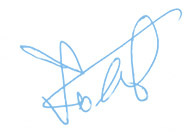
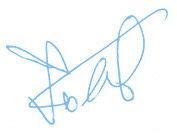
mac

Changed region(s): [[0.0282, 0.0588, 0.9605, 0.9412]]

diff --git a/index.html b/index.html
@@ -41,10 +41,10 @@
 	<div class="b b-1">
 		<div class="b-block">
 			<img src="i/parallax/p-1.png" class="b-enllax b-1-enllax-1" alt="" data-enllax-ratio="1" data-enllax-type="foreground" data-enllax-direction="vertical">
-			<img src="i/parallax/p-2.png" class="b-enllax b-1-enllax-2" alt="" data-enllax-ratio="1" data-enllax-type="foreground" data-enllax-direction="vertical">
+			<img src="i/parallax/p-2.png" class="b-enllax b-1-enllax-2" alt="" data-enllax-ratio="0.5" data-enllax-type="foreground" data-enllax-direction="vertical">
 			<img src="i/parallax/p-5.png" class="b-enllax b-1-enllax-3" alt="" data-enllax-ratio="0.1" data-enllax-type="foreground" data-enllax-direction="vertical">
-			<img src="i/parallax/p-8.png" class="b-enllax b-1-enllax-4" alt="" data-enllax-ratio="0.1" data-enllax-type="foreground" data-enllax-direction="vertical">
-			<img src="i/parallax/p-6.png" class="b-enllax b-1-enllax-5" alt="" data-enllax-ratio="1.5" data-enllax-type="foreground" data-enllax-direction="vertical">
+			<img src="i/parallax/p-8.png" class="b-enllax b-1-enllax-4" alt="" data-enllax-ratio="0.2" data-enllax-type="foreground" data-enllax-direction="vertical">
+			<img src="i/parallax/p-6.png" class="b-enllax b-1-enllax-5" alt="" data-enllax-ratio="1" data-enllax-type="foreground" data-enllax-direction="vertical">
 			<img src="i/parallax/p-7.png" class="b-enllax b-1-enllax-6" alt="" data-enllax-ratio="1.5" data-enllax-type="foreground" data-enllax-direction="vertical">
 			<div class="b-header clearfix">
 				<div class="b-header-left">
@@ -76,15 +76,15 @@
 				<div class="b-1-front">
 					<h1>Продажа свежевыжатого <br><b><span class="percent">100</span> сока алоэ</b> в Москве</h1>
 					<div class="b-advantages">
-						<div class="b-advantage-item b-1-advantages-1">
+						<div class="b-advantage-item b-1-advantages-1 anim fadeLeft" data-cont=".b-advantages">
 							<img src="i/icons/icon-plant-green.svg">
 							<p>Наш сок выжат из<br><b>экологически чистых листьев</b><br>(их возраст более 3-х лет)</p>
 						</div>
-						<div class="b-advantage-item b-1-advantages-2">
+						<div class="b-advantage-item b-1-advantages-2 anim fadeLeft delay200" data-cont=".b-advantages">
 							<img src="i/icons/icon-vial-green.svg">
 							<p><b>Без консервантов, химии</b><br>и любых иных добавок</p>
 						</div>
-						<div class="b-advantage-item b-1-advantages-3">
+						<div class="b-advantage-item b-1-advantages-3 anim fadeLeft delay400" data-cont=".b-advantages">
 							<img src="i/icons/icon-water-green.svg">
 							<p><b>Отжимаем сок в день вашего<br>обращения</b> и сразу доставляем<br>его вам</p>
 						</div>
@@ -126,7 +126,7 @@
 					<h4>Выжимаем сок алоэ из листьев, привезенных<br>с фермы лекарственных растений</h4>
 				</div>
 				<div class="b-2-list">
-					<div class="b-blur-init b-2-item b-2-item-1">
+					<div class="b-blur-init b-2-item b-2-item-1 anim fadeLeft" data-cont=".b-2-list">
 						<div class="b-2-item-blur"></div>
 						<div class="b-2-item-content">
 							<div class="b-2-item-left">
@@ -135,7 +135,7 @@
 							<p class="b-2-item-right">Листья алоэ выращиваются возле Черного моря и срезаются на пике зрелости в возрасте 3-х лет</p>
 						</div>
 					</div>
-					<div class="b-blur-init b-2-item b-2-item-2">
+					<div class="b-blur-init b-2-item b-2-item-2 anim fadeLeft delay200" data-cont=".b-2-list">
 						<div class="b-2-item-blur"></div>
 						<div class="b-2-item-content">
 							<div class="b-2-item-left">
@@ -199,7 +199,7 @@
 					<h4 class="white">На больших производствах листья измельчаются в «труху»,<br>20% витаминов сока разрушаются мгновенно</h4>
 				</div>
 				<div class="b-2-list">
-					<div class="b-blur-init b-2-item b-2-item-1">
+					<div class="b-blur-init b-2-item b-2-item-1 anim fadeLeft">
 						<div class="b-2-item-blur"></div>
 						<div class="b-2-item-content">
 							<div class="b-2-item-left">
@@ -220,10 +220,10 @@
 				<h4>Он точно такой, как если бы Вы сами выжали сок из листа алоэ</h4>
 			</div>
 			<div class="b-5-content">
-				<img src="i/5/left.jpg" class="b-5-img-left">
-				<img src="i/5/right.jpg" class="b-5-img-right">
-				<img src="i/5/line.svg" class="b-5-line">
-				<div class="b-5-text">
+				<img src="i/5/left.jpg" class="b-5-img-left anim fadeLeft delay100" data-cont=".b-5-content">
+				<img src="i/5/right.jpg" class="b-5-img-right anim fadeRight delay300" data-cont=".b-5-content">
+				<img src="i/5/line.svg" class="b-5-line anim fadeLeft" data-cont=".b-5-content">
+				<div class="b-5-text anim fadeLeft" data-cont=".b-5-content">
 					<img src="i/5/co.svg">
 					<p>А для длительного хранения<br>его можно заморозить.</p>
 					<p>Упаковка специально адаптирована<br>для хранения в морозильной камере</p>
@@ -316,7 +316,7 @@
 			<div class="b-facts">
 				<div class="b-fact-item b-fact-1">
 					<div class="b-fact-left">
-						<h2><b>Факт 1</b></h2>
+						<h2 class="anim fadeLeft"><b>Факт 1</b></h2>
 					</div>
 					<div class="b-fact-right">
 						<div class="b-fact-header">
@@ -350,7 +350,7 @@
 				</div>
 				<div class="b-fact-item b-fact-2">
 					<div class="b-fact-left">
-						<h2><b>Факт 2</b></h2>
+						<h2 class="anim fadeLeft"><b>Факт 2</b></h2>
 					</div>
 					<div class="b-fact-right">
 						<div class="b-fact-header">
@@ -366,7 +366,7 @@
 				</div>
 				<div class="b-fact-item b-fact-3">
 					<div class="b-fact-left">
-						<h2><b>Факт 3</b></h2>
+						<h2 class="anim fadeLeft"><b>Факт 3</b></h2>
 					</div>
 					<div class="b-fact-right">
 						<div class="b-fact-header">
@@ -461,19 +461,19 @@
 					<h4>Стаканчики изготовлены из безопасного пластика, который <br>используется, в том числе, и для фасовки детского питания</h4>
 				</div>
 				<div class="b-10-list">
-					<div class="b-blur-init b-10-item b-10-item-1">
+					<div class="b-blur-init b-10-item b-10-item-1 anim fadeLeft" data-cont=".b-10-list">
 						<div class="b-2-item-blur"></div>
 						<div class="b-2-item-content">
 							<p>Каждая упаковка максимально удобна<br>— она содержит <b>8 порционных<br>баночек</b> с соком алоэ</p>
 						</div>
 					</div>
-					<div class="b-blur-init b-10-item b-10-item-2">
+					<div class="b-blur-init b-10-item b-10-item-2 anim fadeRight delay400" data-cont=".b-10-list">
 						<div class="b-2-item-blur"></div>
 						<div class="b-2-item-content">
 							<p>Каждой <b>упаковки хватит</b> больше,<br>чем на недельный курс приёма<br>сока алоэ</p>
 						</div>
 					</div>
-					<div class="b-blur-init b-10-item b-10-item-3">
+					<div class="b-blur-init b-10-item b-10-item-3 anim fadeDown delay800" data-cont=".b-10-list">
 						<div class="b-2-item-blur"></div>
 						<div class="b-2-item-content">
 							<p>1 порция соответствует <b>дневной<br>норме</b> сока алоэ для взрослого<br>человека</p>
@@ -817,7 +817,7 @@
 			<div class="b-title">
 				<h2><b>Посмотрите на отзывы</b><br>тех, кто уже начал регулярно принимать<br>наш свежевыжатый сок алоэ</h2>
 			</div>
-			<p class="b-14-top-text">Всего лишь 2-3 упаковки сока дадут видимые<br>результаты уже через 2 недели применения<img src="i/14/line.svg"></p>
+			<p class="b-14-top-text anim fadeDown delay200">Всего лишь 2-3 упаковки сока дадут видимые<br>результаты уже через 2 недели применения<img src="i/14/line.svg"></p>
 			<div class="b-reviews-nav">
 				<div class="b-reviews-item">
 					<div class="b-reviews-img" style="background-image: url('i/14/review-1.jpg');"></div>
@@ -1035,16 +1035,16 @@
 					<small>* Заморозке подвергаются даже редкие группы крови для последующего переливания</small>
 				</div>
 				<div class="b-16-advantages">
-					<div class="b-16-advantage-item b-16-advantages-1">
+					<div class="b-16-advantage-item b-16-advantages-1 anim fadeLeft" data-cont=".b-16-advantages">
 						<img src="i/icons/icon-temperature.svg">
 						<p>Хранить в замороженном виде сок можно до 1 года<br>и подвергать разморозке не более 3-х раз</p>
 					</div>
-					<div class="b-16-advantage-item b-16-advantages-2">
+					<div class="b-16-advantage-item b-16-advantages-2 anim fadeLeft delay200" data-cont=".b-16-advantages">
 						<img src="i/icons/icon-time.svg">
 						<p>Для употребления замороженного сока возьмите <br>1 баночку и дождитесь её оттаивания. Это займет 10 минут</p>
 						<p class="b-16-advantage-note">Не подвергайте сок принудительному нагреванию</p>
 					</div>
-					<div class="b-16-advantage-item b-16-advantages-3">
+					<div class="b-16-advantage-item b-16-advantages-3 anim fadeLeft delay400" data-cont=".b-16-advantages">
 						<img src="i/icons/icon-ok.svg">
 						<p>Перед вскрытием взболтайте баночку: содержимое<br>в силу натуральности может содержать небольшой<br>осадок</p>
 					</div>
@@ -1055,13 +1055,13 @@
 
 	<div class="b b-17">
 		<div class="b-block">
-			<img src="i/parallax/p-1.png" class="b-enllax b-17-enllax-1" alt="" data-enllax-ratio="1.5" data-enllax-type="foreground" data-enllax-direction="vertical">
-			<img src="i/parallax/p-2.png" class="b-enllax b-17-enllax-2" alt="" data-enllax-ratio="1.5" data-enllax-type="foreground" data-enllax-direction="vertical">
-			<img src="i/parallax/p-3.png" class="b-enllax b-17-enllax-3" alt="" data-enllax-ratio="0.2" data-enllax-type="foreground" data-enllax-direction="vertical">
-			<img src="i/parallax/p-4.png" class="b-enllax b-17-enllax-4" alt="" data-enllax-ratio="0.2" data-enllax-type="foreground" data-enllax-direction="vertical">
-			<img src="i/parallax/p-5.png" class="b-enllax b-17-enllax-5" alt="" data-enllax-ratio="0.2" data-enllax-type="foreground" data-enllax-direction="vertical">
-			<img src="i/parallax/p-6.png" class="b-enllax b-17-enllax-6" alt="" data-enllax-ratio="1" data-enllax-type="foreground" data-enllax-direction="vertical">
-			<img src="i/parallax/p-7.png" class="b-enllax b-17-enllax-7" alt="" data-enllax-ratio="1.5" data-enllax-type="foreground" data-enllax-direction="vertical">
+			<img src="i/parallax/p-1.png" class="b-enllax b-17-enllax-1" alt="" data-enllax-ratio="0.8" data-enllax-type="foreground" data-enllax-direction="vertical">
+			<img src="i/parallax/p-2.png" class="b-enllax b-17-enllax-2" alt="" data-enllax-ratio="0.5" data-enllax-type="foreground" data-enllax-direction="vertical">
+			<img src="i/parallax/p-3.png" class="b-enllax b-17-enllax-3" alt="" data-enllax-ratio="-0.1" data-enllax-type="foreground" data-enllax-direction="vertical">
+			<img src="i/parallax/p-4.png" class="b-enllax b-17-enllax-4" alt="" data-enllax-ratio="-0.1" data-enllax-type="foreground" data-enllax-direction="vertical">
+			<img src="i/parallax/p-5.png" class="b-enllax b-17-enllax-5" alt="" data-enllax-ratio="-0.1" data-enllax-type="foreground" data-enllax-direction="vertical">
+			<img src="i/parallax/p-6.png" class="b-enllax b-17-enllax-6" alt="" data-enllax-ratio="0.5" data-enllax-type="foreground" data-enllax-direction="vertical">
+			<img src="i/parallax/p-7.png" class="b-enllax b-17-enllax-7" alt="" data-enllax-ratio="0.8" data-enllax-type="foreground" data-enllax-direction="vertical">
 			<div class="b-17-header clearfix">
 				<img class="b-17-back" src="i/17/fateev.jpg">
 				<div class="b-17-content right">

diff --git a/css/layout.css b/css/layout.css
@@ -754,7 +754,7 @@ input[type="checkbox"].error + span + label:before{
 	left: 300px;
 }
 .b-1-enllax-2{
-	top: 245px;
+	top: 180px;
     left: 700px;
 }
 .b-1-enllax-3{
@@ -2290,11 +2290,12 @@ input[type="checkbox"].error + span + label:before{
 					display: inline-block;
 					vertical-align: top;
 					font-size: 18px;
-					padding-top: 70px;
+					padding-top: 62px;
 				}
 				.b-17-sign img{
 					display: inline-block;
 					vertical-align: top;
+					padding-left: 10px;
 					width: 180px;
 					height: 120px;
 				}
@@ -2729,7 +2730,7 @@ input[type="checkbox"].error + span + label:before{
 	.b-17-sign-text p{
 		color: rgba(26, 26, 31, 0.5);
 	}
-	.b-17-sign img{
+	.b-thanks-page .b-17-sign img{
 		margin-top: -18px;
 	}
 

diff --git a/js/main.js b/js/main.js
@@ -200,7 +200,7 @@ $(document).ready(function(){
 
     $(".b-blur-init").each(function(indx, element){
         var pos = $(this).position();
-        var left = $(this).parents(".b-10").length ? -368 : -412;
+        var left = $(this).parents(".b-10").length ? -468 : -512;
         $(this).children(".b-2-item-blur").css(
             {"background-position" : (-pos.left+left).toString()+"px "+(-pos.top).toString()+"px"}
         );
